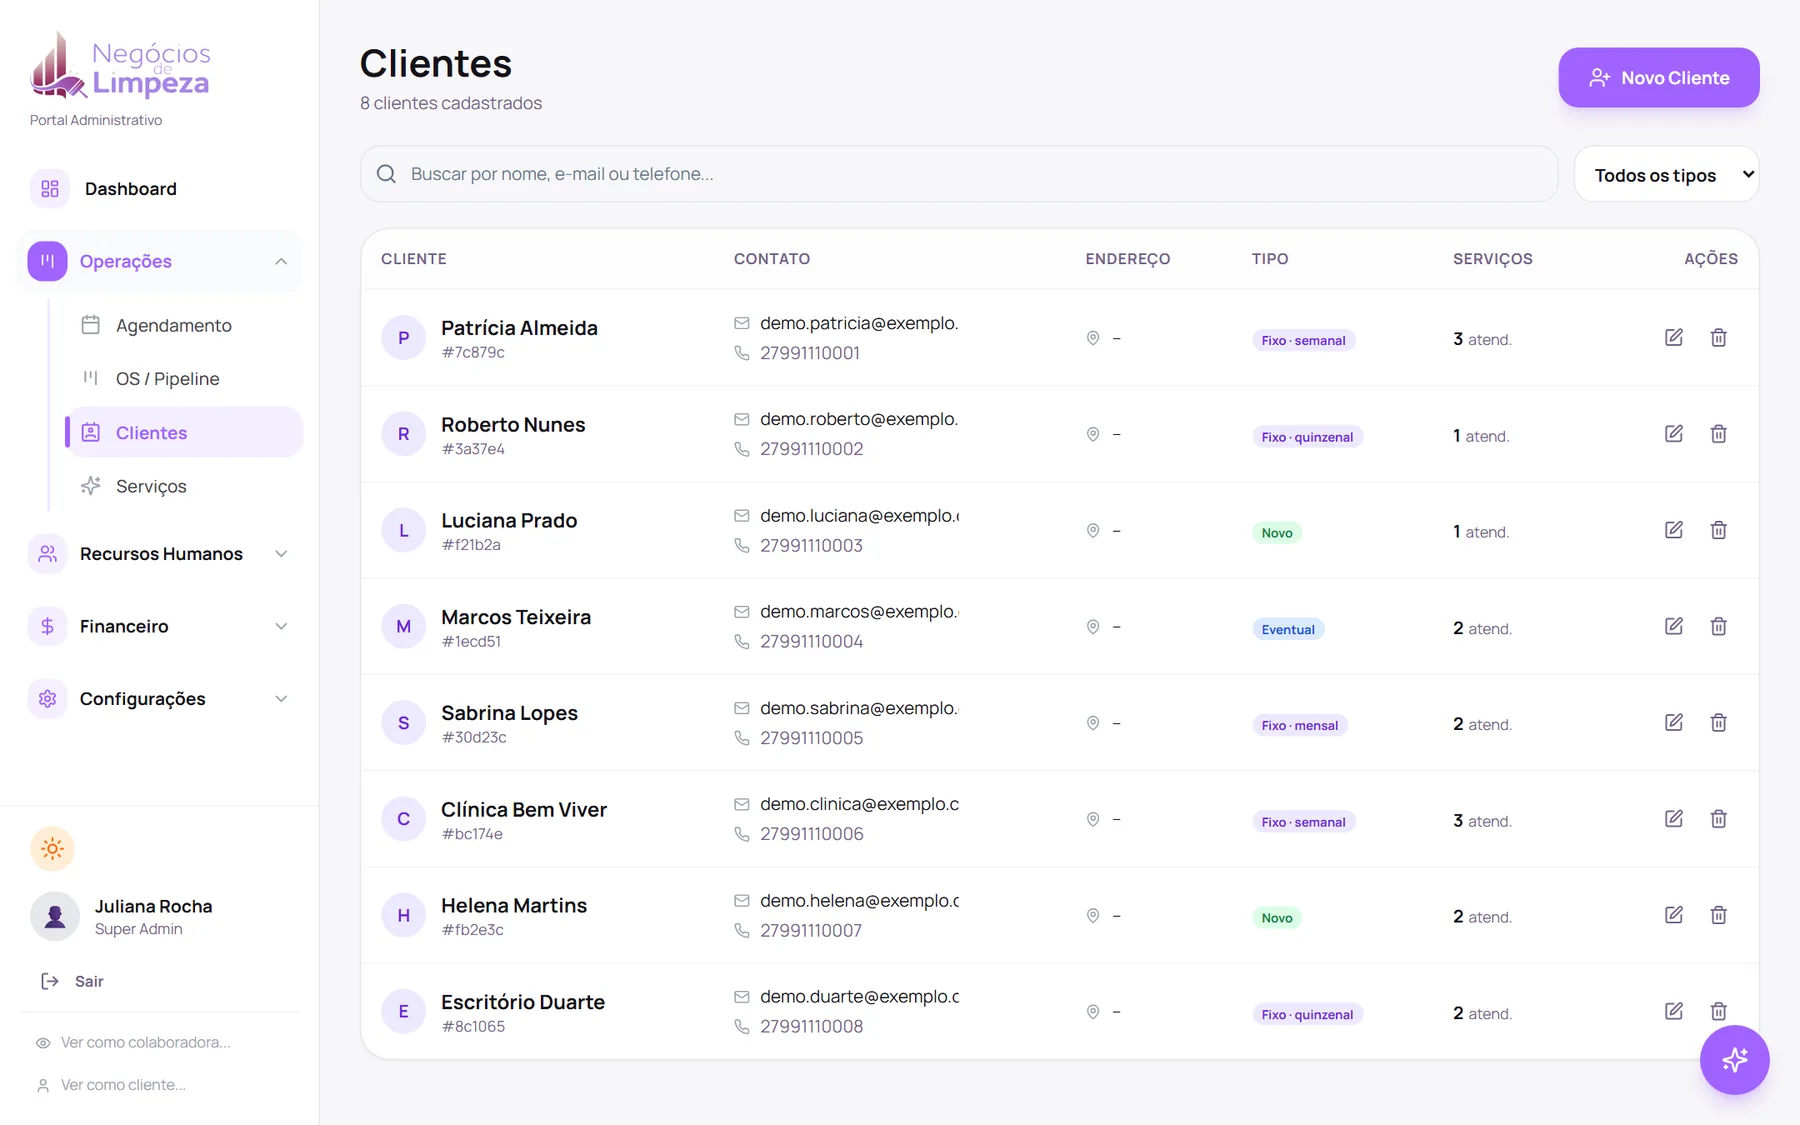
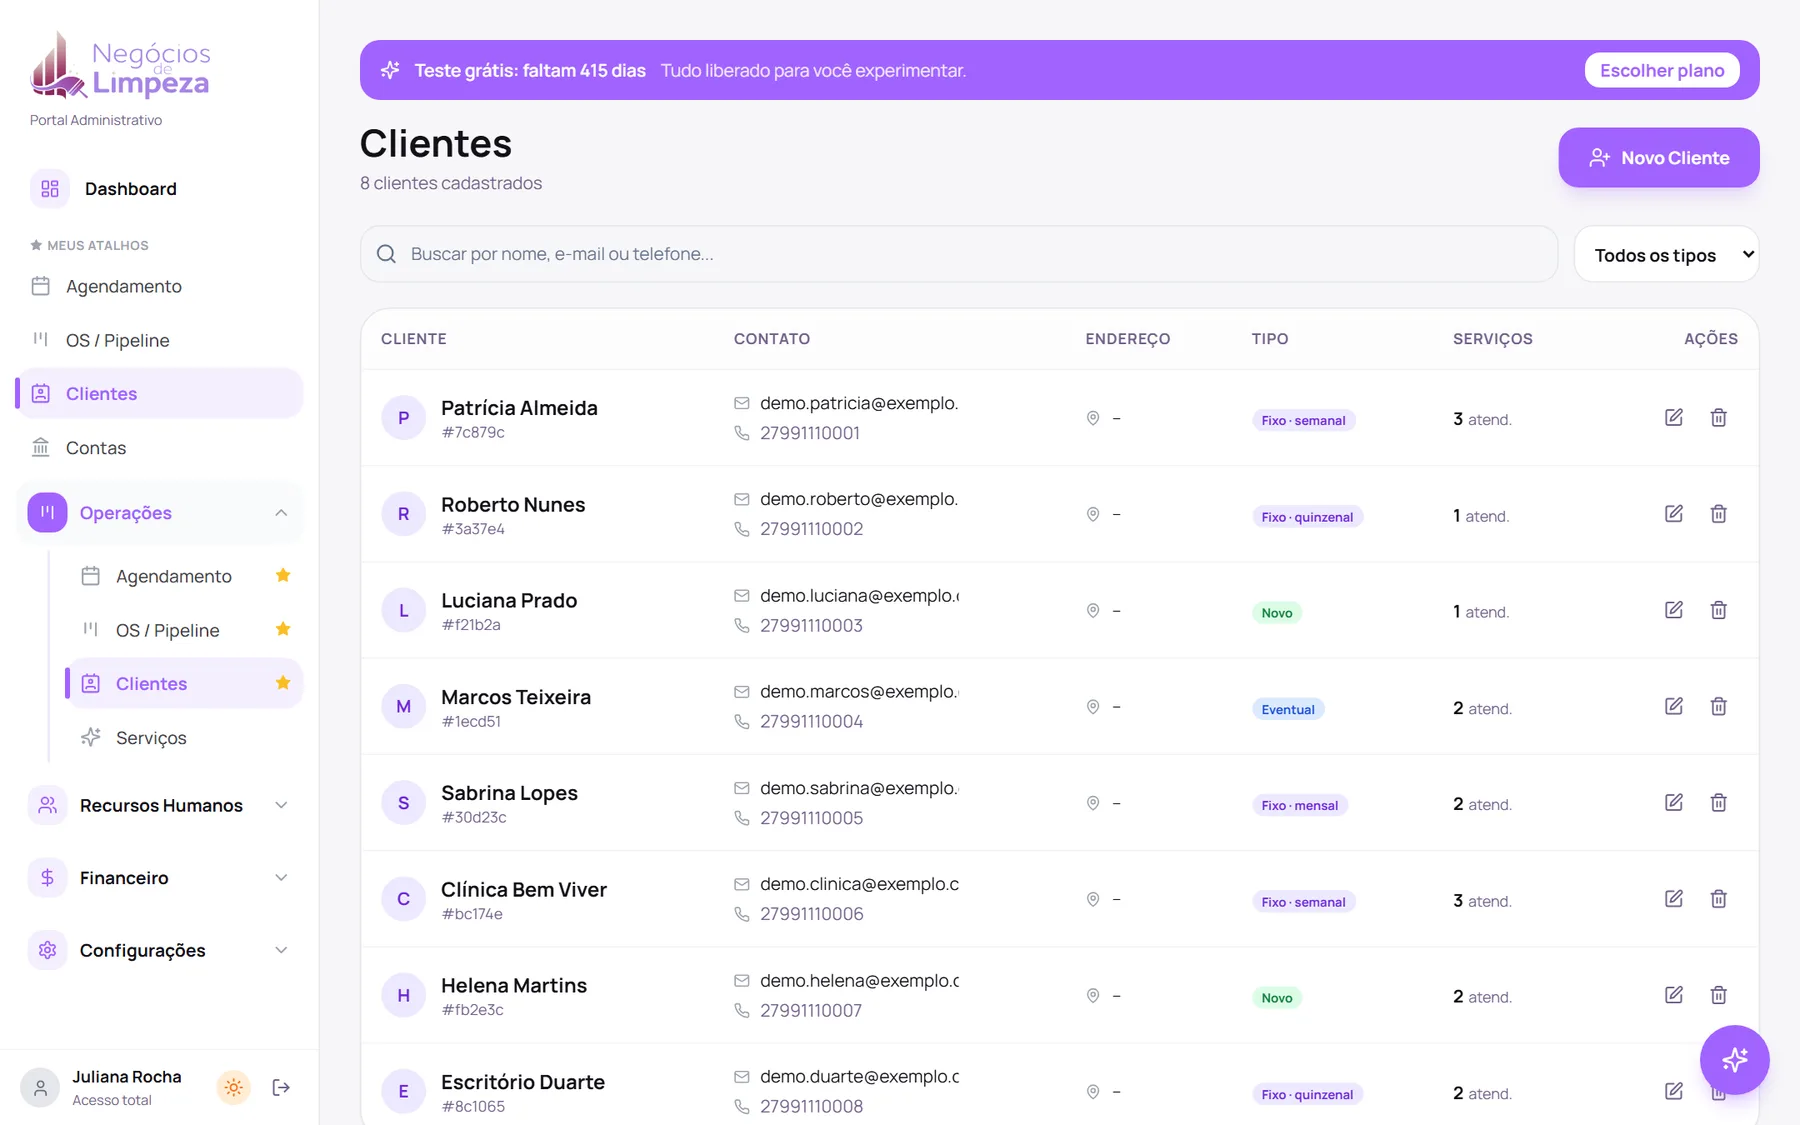
site: new screenshots (shortcuts menu, compact footer, finance tabs, team on OS cards) and a permissions section, features and FAQ; notifications card shows why a phone could not register

diff --git a/pages/VendasPage.tsx b/pages/VendasPage.tsx
@@ -5,7 +5,7 @@ import { Cabecalho, Rodape, Precos } from '../components/vendas/comum';
 import {
   ArrowRight, Check, CalendarDays, Smartphone, MessageCircle, Wallet, Users, Sparkles, MapPin,
   NotebookPen, PhoneOff, Calculator, UserX, ChevronDown, Menu, X, FileText, Star, BellRing, CheckCheck,
-  Package, UserPlus, Contact, Kanban, BarChart3, Instagram, Globe, ArrowUp, TrendingUp, Clock,
+  Package, UserPlus, Contact, Kanban, BarChart3, Instagram, Globe, ArrowUp, TrendingUp, Clock, ShieldCheck, Pin,
 } from 'lucide-react';
 
 // Sales page of the platform. AgencyFlow-inspired structure: rotating screens in the hero, pains and
@@ -46,8 +46,8 @@ const ANTES_DEPOIS: [string, string][] = [
 ];
 
 const RECURSOS: { icon: React.ElementType; t: string; slug?: string; d: string }[] = [
-  { icon: CalendarDays, t: 'Agenda da equipe', slug: 'agenda', d: 'Mês, semana, equipe lado a lado e a semana de cada profissional.' },
-  { icon: Kanban, t: 'Ordens de serviço', slug: 'ordens-de-servico', d: 'Do aguardando sinal ao concluído, com o status de cada faxina.' },
+  { icon: CalendarDays, t: 'Agenda da equipe', slug: 'agenda', d: 'Mês, semana e equipe lado a lado. Faxina com 2 ou 3 profissionais, repetir toda semana e editar em um clique.' },
+  { icon: Kanban, t: 'Ordens de serviço', slug: 'ordens-de-servico', d: 'Arraste o card do aguardando sinal ao concluído e veja a equipe de cada faxina.' },
   { icon: Contact, t: 'Clientes', slug: 'clientes', d: 'Fixos, eventuais e novos, com histórico, endereços e clientes sumidos.' },
   { icon: Wallet, t: 'Cobrança automática', slug: 'cobranca', d: 'Link de sinal e de restante pela InfinitePay, com baixa sozinha.' },
   { icon: MessageCircle, t: 'WhatsApp automático', slug: 'whatsapp', d: 'Confirmação, lembrete na véspera e pós-serviço do seu número.' },
@@ -55,12 +55,14 @@ const RECURSOS: { icon: React.ElementType; t: string; slug?: string; d: string }
   { icon: Smartphone, t: 'App da profissional', slug: 'app-colaboradora', d: 'Agenda, endereço no mapa, check-in, fotos e quanto vai receber.' },
   { icon: Users, t: 'Equipe e RH', slug: 'equipe', d: 'Cargos, diárias, desempenho, bônus e plano de carreira.' },
   { icon: UserPlus, t: 'Contratação', d: 'Candidatas por etapa, entrevista e banco de freelas.' },
-  { icon: Star, t: 'Avaliações', d: 'Pedido de avaliação no Google e nota de cada profissional.' },
+  { icon: Star, t: 'Avaliações', d: 'Google na primeira faxina e nota de cada profissional, ligada à faxina e ao cliente.' },
   { icon: MapPin, t: 'Mapa da equipe', d: 'Onde cada profissional está, em tempo real.' },
   { icon: Package, t: 'Estoque', d: 'Produtos e equipamentos com alerta de estoque baixo.' },
   { icon: FileText, t: 'Nota fiscal', d: 'NFS-e com o CNPJ da sua empresa (adicional).' },
   { icon: Sparkles, t: 'Assistente com IA', slug: 'assistente-ia', d: 'Pergunte sobre o seu negócio e receba a resposta com números.' },
   { icon: BellRing, t: 'Avisos para a equipe', d: 'Mudou a agenda? A profissional recebe o aviso no celular.' },
+  { icon: ShieldCheck, t: 'Permissões por pessoa', d: 'A atendente vê a agenda e os clientes; o financeiro fica só com você.' },
+  { icon: Pin, t: 'Meus atalhos', d: 'Cada pessoa fixa as telas que mais usa, no computador e na barra do celular.' },
 ];
 
 const PERGUNTAS_IA = [
@@ -74,6 +76,7 @@ const FAQ = [
   { p: 'Preciso instalar alguma coisa?', r: 'Não. Funciona no navegador do computador e do celular, e também nos apps para Android e iPhone.' },
   { p: 'Como funciona o teste grátis?', r: 'São 14 dias com todas as funções liberadas, sem cartão. Você cria a conta, configura e usa com a sua equipe. No fim, escolhe o plano.' },
   { p: 'Minhas profissionais pagam alguma coisa?', r: 'Não. O acesso delas ao app está incluído no plano da sua empresa.' },
+  { p: 'Posso dar acesso para a atendente sem ela ver o financeiro?', r: 'Sim. Em Usuários & Permissões você escolhe o que cada pessoa do escritório vê: perfis prontos (Atendimento, Líder de equipe, Financeiro, RH) ou área por área. As profissionais, no app, nunca veem o valor que o cliente paga.' },
   { p: 'O WhatsApp continua no meu celular?', r: 'Sim. As mensagens automáticas (confirmação, lembrete da véspera, pós-serviço) saem do seu próprio número, e você continua usando o WhatsApp Business normalmente.' },
   { p: 'Quanto custa o WhatsApp?', r: 'Cada plano inclui um limite de lembretes automáticos por mês. A Meta cobra direto no seu cartão só o que for enviado (centavos por mensagem). Para enviar mais ou usar o atendimento automático, há o adicional.' },
   { p: 'Meus dados ficam seguros?', r: 'Sim. Cada empresa só acessa os próprios dados, com login protegido. Nenhuma outra empresa vê seus clientes, sua equipe ou seu financeiro.' },
@@ -349,6 +352,18 @@ export const VendasPage: React.FC = () => {
               <h3 className="text-xl font-bold">Equipe e RH</h3>
               <p className="mt-2 text-sm text-lightText dark:text-darkTextSecondary">Contratação, cargo e diária, avaliações e carreira.</p>
               <div className="mt-6 flex-1"><Recorte src="equipe-rh.webp" alt="Equipe e RH" altura="h-48" /></div>
+            </div>
+            <div className={`${cartao} p-6 md:p-8 md:col-span-6 grid md:grid-cols-5 gap-6 items-center`}>
+              <div className="md:col-span-2">
+                <h3 className="text-xl font-bold">Cada pessoa vê só o que precisa</h3>
+                <p className="mt-2 text-sm text-lightText dark:text-darkTextSecondary">Coloque a atendente, a líder ou quem cuida das contas no sistema e escolha o que cada uma acessa: perfis prontos ou área por área. E cada pessoa fixa nos atalhos as telas que mais usa.</p>
+                <ul className="mt-4 space-y-2 text-sm font-semibold">
+                  {['Atendimento, Líder de equipe, Financeiro e RH prontos', 'O financeiro e as configurações ficam só com você', 'Atalhos no menu do computador e na barra do celular'].map(x => (
+                    <li key={x} className="flex gap-2"><Check size={16} className="text-primary shrink-0 mt-0.5" />{x}</li>
+                  ))}
+                </ul>
+              </div>
+              <div className="md:col-span-3"><Recorte src="permissoes.webp" alt="Usuários e permissões" altura="h-56 md:h-72" /></div>
             </div>
           </div>
         </section>

diff --git a/components/NotificacoesCelular.tsx b/components/NotificacoesCelular.tsx
@@ -1,6 +1,6 @@
 import React, { useEffect, useState } from 'react';
 import { Bell, BellOff, CheckCircle2, Send } from 'lucide-react';
-import { ativarPush, estadoPush, testarPush, noAppNativo, type EstadoPush } from '../lib/push';
+import { ativarPush, estadoPush, testarPush, noAppNativo, erroPush, type EstadoPush } from '../lib/push';
 
 // Phone notifications status card (only inside the Android/iPhone app).
 // modo 'perfil': always visible (collaborator profile). modo 'aviso' (admin dashboard): only while not active.
@@ -11,14 +11,21 @@ export const NotificacoesCelular: React.FC<{ modo?: 'perfil' | 'aviso' }> = ({ m
   const [ocupado, setOcupado] = useState(false);
   const [testado, setTestado] = useState(() => { try { return localStorage.getItem('ndl_push_testado') === '1'; } catch { return false; } });
 
-  useEffect(() => { estadoPush().then(setEstado).catch(() => {}); }, []);
+  const [erro, setErro] = useState('');
+  useEffect(() => {
+    estadoPush().then(setEstado).catch(() => {});
+    // The automatic registration runs a few seconds after opening; show its problem, if any.
+    const t = window.setTimeout(() => setErro(erroPush()), 6000);
+    return () => window.clearTimeout(t);
+  }, []);
   if (!noAppNativo() || estado === 'indisponivel') return null;
-  if (modo === 'aviso' && estado === 'ativo' && !acabouDeAtivar) return null;
+  if (modo === 'aviso' && estado === 'ativo' && !acabouDeAtivar && !erro) return null;
 
   const ativar = async () => {
     setOcupado(true);
     const e = await ativarPush().catch(() => 'pendente' as EstadoPush);
     setEstado(e);
+    setErro(erroPush());
     if (e === 'ativo') setAcabouDeAtivar(true);
     setOcupado(false);
   };
@@ -26,6 +33,7 @@ export const NotificacoesCelular: React.FC<{ modo?: 'perfil' | 'aviso' }> = ({ m
     setOcupado(true);
     // Make sure this phone is registered before testing (no-op if it already is).
     await ativarPush().catch(() => {});
+    setErro(erroPush());
     const r = await testarPush();
     setMsg(r);
     if (r.startsWith('Pronto')) { setTestado(true); try { localStorage.setItem('ndl_push_testado', '1'); } catch {} }
@@ -42,7 +50,7 @@ export const NotificacoesCelular: React.FC<{ modo?: 'perfil' | 'aviso' }> = ({ m
           <p className="font-bold text-darkText text-sm">Notificações no celular</p>
           <p className="text-xs text-lightText">
             {estado === 'ativo' ? 'Ativas: você recebe os avisos da agenda e dos pagamentos.'
-              : estado === 'negado' ? 'Bloqueadas. Libere em Configurações do Android → Apps → Negócios de Limpeza → Notificações.'
+              : estado === 'negado' ? 'Bloqueadas. Libere nas configurações do celular → Negócios de Limpeza → Notificações.'
               : 'Receba aviso de novos serviços, mudanças e lembretes.'}
           </p>
         </div>
@@ -54,6 +62,7 @@ export const NotificacoesCelular: React.FC<{ modo?: 'perfil' | 'aviso' }> = ({ m
         )}
       </div>
       {msg && <p className="mt-2 text-xs text-lightText">{msg}</p>}
+      {erro && <p className="mt-2 text-xs font-semibold text-red-600 break-words">Não consegui cadastrar este celular para notificações. {erro}</p>}
     </div>
   );
 };

diff --git a/lib/push.ts b/lib/push.ts
@@ -12,9 +12,14 @@ import { supabase } from './supabase';
 export const noAppNativo = () => Capacitor.isNativePlatform();
 const ehIos = () => Capacitor.getPlatform() === 'ios';
 
+// Last problem while registering this phone (shown on the notifications card so it can be fixed remotely).
+let ultimoErro = '';
+export const erroPush = () => ultimoErro;
+
 async function registrarToken(value: string) {
   ultimoToken = value;
-  await supabase.rpc('registrar_dispositivo', { p_token: value, p_plataforma: Capacitor.getPlatform() });
+  const { error } = await supabase.rpc('registrar_dispositivo', { p_token: value, p_plataforma: Capacitor.getPlatform() });
+  ultimoErro = error ? `Cadastro do celular: ${error.message}` : '';
 }
 
 let ouvintes = false;
@@ -57,7 +62,7 @@ async function prepararOuvintes() {
     importance: 4, visibility: 1, sound: 'default', vibration: true, lightColor: '#A163FF',
   }).catch(() => {});
   await PushNotifications.addListener('registration', ({ value }) => registrarToken(value));
-  await PushNotifications.addListener('registrationError', e => console.warn('push: registro falhou', e));
+  await PushNotifications.addListener('registrationError', e => { ultimoErro = `Registro: ${(e as any)?.error || JSON.stringify(e)}`; });
   await PushNotifications.addListener('pushNotificationReceived', n =>
     avisoNaTela(n.title || 'Negócios de Limpeza', n.body || '', (n.data as any)?.rota));
   await PushNotifications.addListener('pushNotificationActionPerformed', a =>
@@ -82,8 +87,13 @@ export async function ativarPush(): Promise<EstadoPush> {
     let { receive: r } = await FirebaseMessaging.checkPermissions();
     if (r === 'prompt' || r === 'prompt-with-rationale') r = (await FirebaseMessaging.requestPermissions()).receive;
     if (r !== 'granted') return r === 'denied' ? 'negado' : 'pendente';
-    const { token } = await FirebaseMessaging.getToken();
-    if (token) await registrarToken(token);
+    try {
+      const { token } = await FirebaseMessaging.getToken();
+      if (token) await registrarToken(token);
+      else ultimoErro = 'O iPhone não devolveu o código de notificação.';
+    } catch (e: any) {
+      ultimoErro = `iPhone: ${e?.message || e}`;
+    }
     return 'ativo';
   }
   let { receive } = await PushNotifications.checkPermissions();
